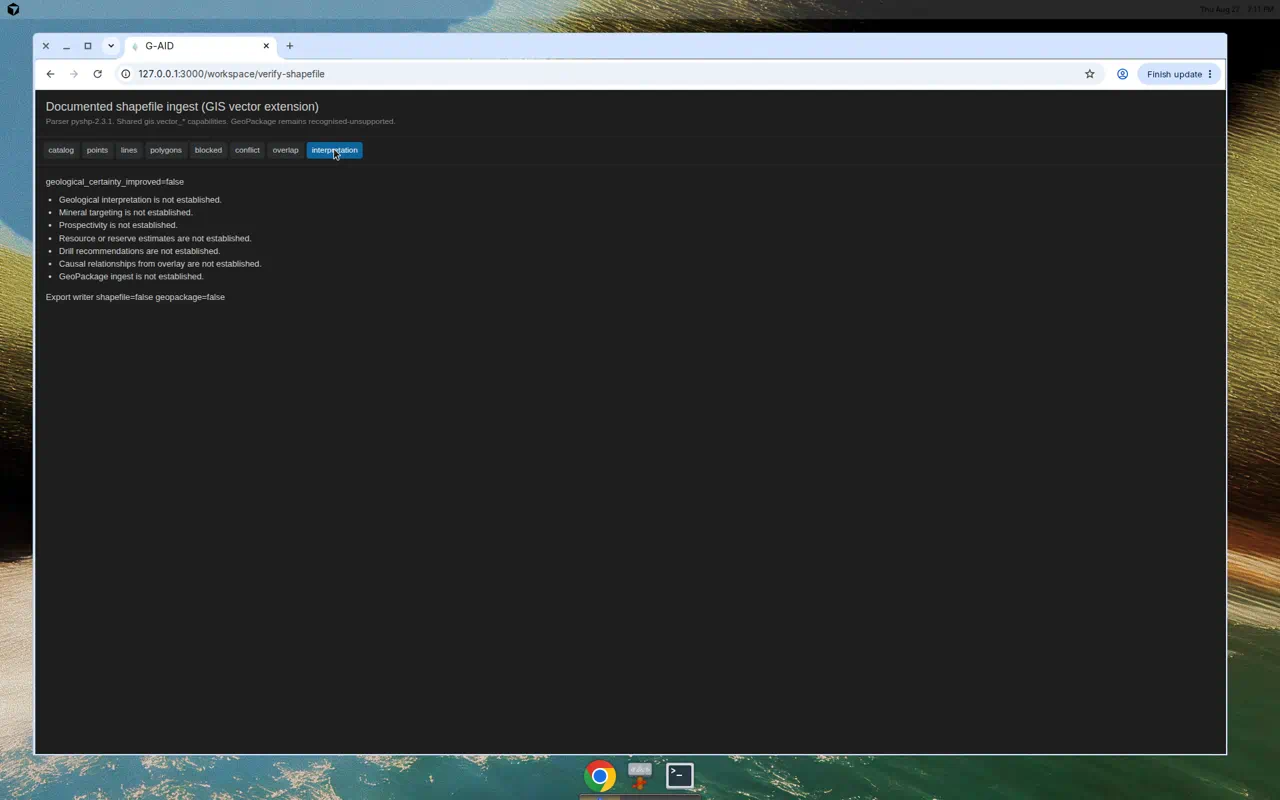
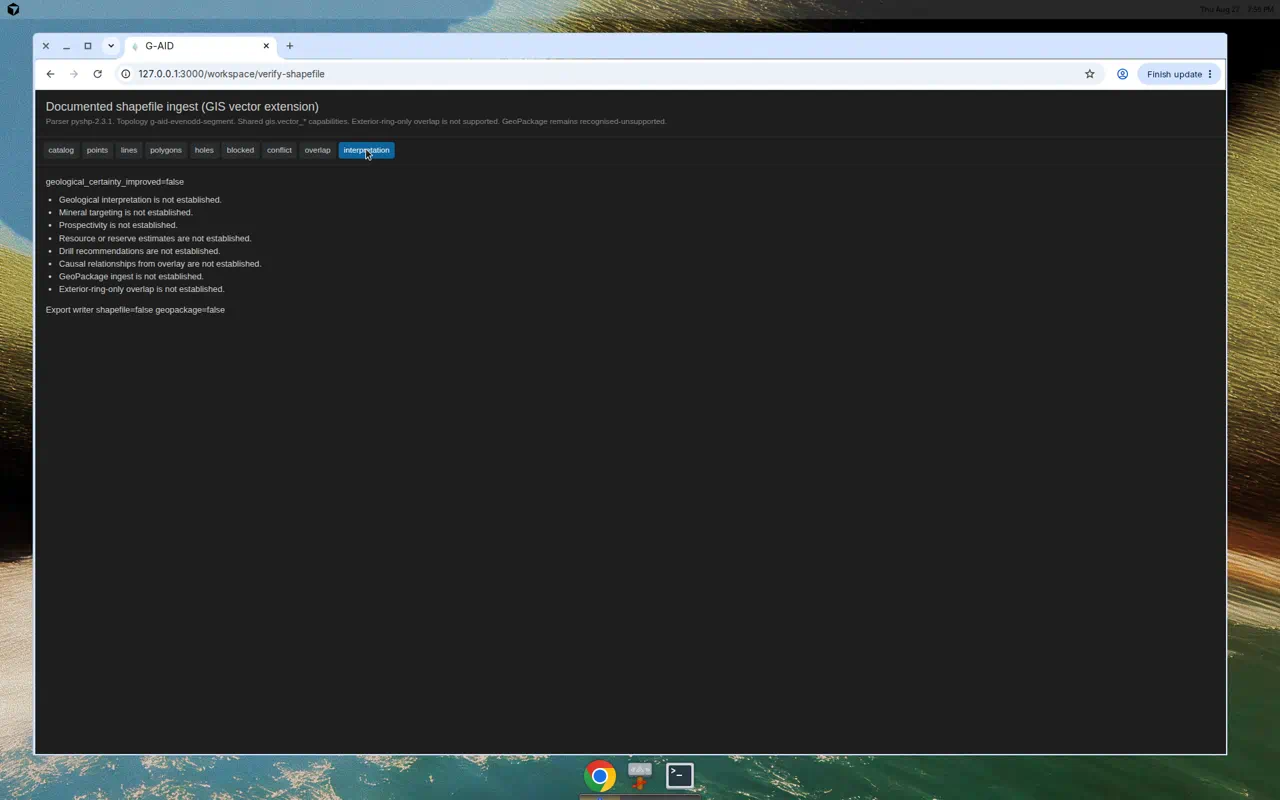
Record topology-aware shapefile overlap desktop verification.
Click-through covers even-odd hole fill, point-in-hole disjoint,
boundary labels, blocked malformed rings, and CRS conflict.

Changed region(s): [[0.0312, 0.3438, 0.1875, 0.4062], [0.3125, 0.125, 0.5, 0.1562], [0.2188, 0.1562, 0.3125, 0.2188]]

diff --git a/src/lib/phase11-shapefile.test.ts b/src/lib/phase11-shapefile.test.ts
@@ -333,6 +333,8 @@ test("desktop verification fixtures cover shapefile catalog, blocked datasets, C
     const ui = JSON.parse(fs.readFileSync(uiPath, "utf8"));
     assert.equal(ui.passed, true);
     assert.equal(ui.parser, "pyshp-2.3.1");
+    assert.equal(ui.topology_engine, "g-aid-evenodd-segment");
+    assert.equal(ui.exterior_ring_only, false);
     assert.equal(ui.geopackage_parsed, false);
     assert.equal(ui.silent_reprojection, false);
     assert.equal(ui.filename_inferred_geology, false);
